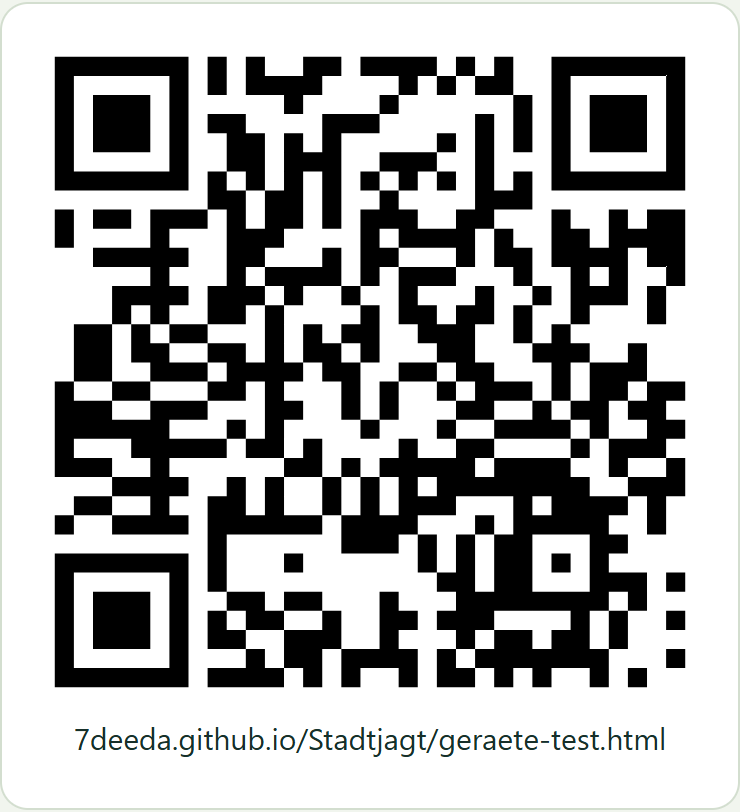
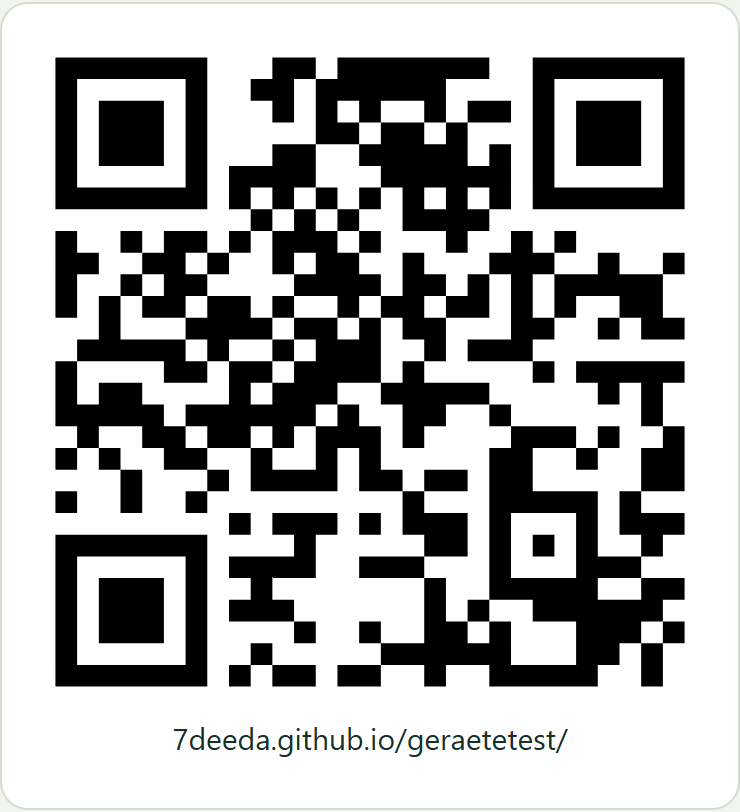
Geräte-Test neutral unter 7deeda.github.io/geraetetest/, alte Adresse leitet um; Acht rollt beim Einmessen
Veröffentlichung über tools/geraetetest_veroeffentlichen.py in das Repo 7DEEda/geraetetest.

diff --git a/geraete-test.html b/geraete-test.html
@@ -3,12 +3,19 @@
 <head>
 <meta charset="utf-8">
 <meta name="viewport" content="width=device-width, initial-scale=1">
+<!-- WEITERLEITUNG -->
+<script>
+// Alte Adresse unter dem Repo des Spiels: auf die neutrale Adresse umleiten. tools/geraetetest_veroeffentlichen.py
+// entfernt diesen Block, bevor die Seite ins Repo geraetetest kommt.
+if (/^\/Stadtjagt\//i.test(location.pathname)) location.replace("https://7deeda.github.io/geraetetest/" + location.search);
+</script>
+<!-- /WEITERLEITUNG -->
 <title>Geräte-Test</title>
 <link rel="preconnect" href="https://fonts.googleapis.com">
 <link rel="preconnect" href="https://fonts.gstatic.com" crossorigin>
 <link href="https://fonts.googleapis.com/css2?family=Barlow+Semi+Condensed:wght@500;600;700&family=Barlow:wght@400;500;600&display=swap" rel="stylesheet">
 <style>
-/* Farben, Schrift, Karten und Hintergrund wie index.html, damit der Test die App so zeigt, wie das Gerät sie zeigen würde. */
+/* Farben, Schrift, Karten und Hintergrund wie in der App, damit der Test sie so zeigt, wie das Gerät sie zeigen würde. */
 :root{
   --paper:#F1F5EE; --card:#FFFFFF; --ink:#17302A; --muted:#445650; --line:#D3DECF;
   --contour:#CFDBC8; --flag:#EE5F1B; --flag-ink:#0F1B18; --water:#2F6E9E;
@@ -126,7 +133,7 @@ ol.teil li{margin-bottom:6px}
 #kreis .mitte{fill:var(--card);stroke:var(--line);stroke-width:1}
 #kreis #kugel{fill:var(--flag);stroke:var(--card);stroke-width:1.5}
 #kreis text{font:700 15px var(--head);fill:var(--ink);text-anchor:middle;dominant-baseline:central}
-/* Einmessen: Handy fährt eine liegende Acht ab, wie im Spiel */
+/* Einmessen: Handy fährt eine liegende Acht ab */
 .acht{display:block;width:100%;max-width:260px;height:auto;margin:0 auto 18px}
 .acht .bahn{fill:none;stroke:var(--line);stroke-width:3;stroke-dasharray:6 6}
 .acht .handy{fill:var(--card);stroke:var(--ink);stroke-width:2.5}
@@ -278,10 +285,11 @@ details[open] summary::after{transform:rotate(-135deg);margin-top:4px}
 <script>
 const $ = s => document.querySelector(s);
 const esc = s => String(s ?? "").replace(/[&<>"']/g, c => ({ "&": "&amp;", "<": "&lt;", ">": "&gt;", '"': "&quot;", "'": "&#39;" }[c]));
-const SUITE = window.SJ_TESTS;
-const cfg = { url: (window.SJ_CONFIG || {}).url || "", key: (window.SJ_CONFIG || {}).key || "" };
+const SUITE = window.GT_TESTS;
+const KONF = window.GT_CONFIG || window.SJ_CONFIG || {};
+const cfg = { url: KONF.url || "", key: KONF.key || "" };
 // Privater Modus: schon der Zugriff auf localStorage kann werfen. Dann merkt sich die Seite nichts.
-const LS = (() => { try { localStorage.setItem("sj._", "1"); localStorage.removeItem("sj._"); return localStorage; } catch { return { getItem: () => null, setItem() {}, removeItem() {} }; } })();
+const LS = (() => { try { localStorage.setItem("gt._", "1"); localStorage.removeItem("gt._"); return localStorage; } catch { return { getItem: () => null, setItem() {}, removeItem() {} }; } })();
 
 async function rpc(fn, args) {
   if (!cfg.url || !cfg.key) throw new Error("config.js fehlt");
@@ -405,7 +413,7 @@ const sensor = {
       if (!this.nTick) { this.nTick = true; requestAnimationFrame(() => { this.nTick = false; $("#nadel").style.transform = `rotate(${this.dreh.toFixed(1)}deg)`; kreisMalen(); }); }
     }
     if (e.beta == null || e.gamma == null) return;
-    // Einmessen: Zeit zählen, in der das Handy schneller als 80°/s geschwenkt wird (wie kalSchritt im Spiel)
+    // Einmessen: Zeit zählen, in der das Handy schneller als 80°/s geschwenkt wird (wie beim Einmessen in der App)
     if (this.kal) {
       const t = e.timeStamp || performance.now(), k = this.kal;
       if (k.letzt) {
@@ -415,7 +423,7 @@ const sensor = {
       k.letzt = { t, b: e.beta, c: e.gamma };
     }
     this.beta = e.beta; this.gamma = e.gamma;
-    // Neigungs-Parallax wie neigungStart() in index.html
+    // Neigungs-Parallax wie in der App
     if (matchMedia("(prefers-reduced-motion: reduce)").matches) return;
     // Fast senkrecht kippt gamma schlagartig um 180° (Eigenheit der Winkel bei beta um 90°): dann stillhalten statt springen
     if (Math.abs(e.beta) > 75) return;
@@ -468,10 +476,10 @@ const ICON = {
   kamera: '<svg viewBox="0 0 24 24" fill="none" stroke="currentColor" stroke-width="1.6" stroke-linecap="round" stroke-linejoin="round"><path d="M4 8h3l1.5-2.5h7L17 8h3v11H4z"/><circle cx="12" cy="13" r="3.5"/><circle cx="12" cy="13" r="1.2" fill="var(--flag)" stroke="none"/></svg>',
   vibration: '<svg viewBox="0 0 24 24" fill="none" stroke="currentColor" stroke-width="1.6" stroke-linecap="round" stroke-linejoin="round"><rect x="8" y="3.5" width="8" height="17" rx="2"/><path d="M4.5 8v8M2 10v4M19.5 8v8M22 10v4" stroke="var(--flag)"/></svg>',
   benachrichtigung: '<svg viewBox="0 0 24 24" fill="none" stroke="currentColor" stroke-width="1.6" stroke-linecap="round" stroke-linejoin="round"><path d="M6 16V11a6 6 0 0 1 12 0v5l1.5 2h-15z"/><path d="M10 20.5a2 2 0 0 0 4 0"/><circle cx="17.5" cy="6.5" r="2.2" fill="var(--flag)" stroke="none"/></svg>',
-  // liegende Acht wie beim Einmessen im Spiel (ACHT in index.html)
+  // liegende Acht wie beim Einmessen in der App
   "kompass-einmessen": `<svg class="acht" viewBox="0 0 200 100" aria-hidden="true">
     <path id="achtbahn" class="bahn" d="M100,50 C130,8 185,8 185,50 C185,92 130,92 100,50 C70,8 15,8 15,50 C15,92 70,92 100,50 Z"/>
-    <g><rect class="handy" x="-10" y="-17" width="20" height="34" rx="4"/><rect class="schirm" x="-6" y="-12" width="12" height="22" rx="1.5"/>
+    <g><g><rect class="handy" x="-10" y="-17" width="20" height="34" rx="4"/><rect class="schirm" x="-6" y="-12" width="12" height="22" rx="1.5"/><animateTransform attributeName="transform" type="scale" values="1 1;0.2 1;1 1;0.2 1;1 1" dur="2.4s" repeatCount="indefinite"/></g>
       <animateMotion dur="3.2s" repeatCount="indefinite"><mpath href="#achtbahn"/></animateMotion>
       <animateTransform attributeName="transform" type="rotate" additive="sum" values="-18;18;-18" dur="1.6s" repeatCount="indefinite"/></g></svg>`,
   allgemein: '<svg viewBox="0 0 24 24" fill="none" stroke="currentColor" stroke-width="1.6" stroke-linecap="round" stroke-linejoin="round"><rect x="6" y="2.5" width="12" height="19" rx="2.5"/><path d="M10 5h4"/><circle cx="12" cy="13" r="2" fill="var(--flag)" stroke="none"/></svg>',
@@ -759,13 +767,14 @@ function payload() {
 }
 // Jeder Lauf liegt unter eigenem Namen auf dem Gerät, bis der Server ihn bestätigt hat. So überschreibt
 // ein neuer Lauf keinen alten, der im Funkloch hängen geblieben ist.
-const OFFEN = "sj.gt.offen.";
+const OFFEN = "gt.offen.", OFFEN_ALT = "sj.gt.offen.";
 function offene() {
   const aus = [];
   try {
     for (const k of Object.keys(localStorage)) {
-      if (!k.startsWith(OFFEN)) continue;
-      try { aus.push({ key: k.slice(OFFEN.length), payload: JSON.parse(localStorage.getItem(k)) }); } catch { localStorage.removeItem(k); }
+      const pr = k.startsWith(OFFEN) ? OFFEN : k.startsWith(OFFEN_ALT) ? OFFEN_ALT : null;
+      if (!pr) continue;
+      try { aus.push({ key: k.slice(pr.length), payload: JSON.parse(localStorage.getItem(k)), pr }); } catch { localStorage.removeItem(k); }
     }
     const alt = JSON.parse(localStorage.getItem("sj.gt.offen") || "null");   // Ablage der ersten Fassung
     if (alt && alt.key && alt.payload && !aus.some(o => o.key === alt.key)) aus.push(alt);
@@ -808,7 +817,7 @@ async function allesSenden() {
   for (const o of liste) {
     try {
       await rpc("device_test_save", { p_key: o.key, p_payload: o.payload });
-      LS.removeItem(OFFEN + o.key);
+      LS.removeItem((o.pr || OFFEN) + o.key);
       if (o.key !== lauf.key) LS.removeItem("sj.gt.offen");
     } catch (e) { fehler = e; }
   }

diff --git a/geraete-tests.js b/geraete-tests.js
@@ -17,7 +17,7 @@
 //
 // Neue Funktion: Baustein anhängen und version hochzählen.
 (function () {
-  const KOMPASS_GRENZE = 25;   // wie in index.html
+  const KOMPASS_GRENZE = 25;   // wie in der App
   const jetzt = () => performance.now();
   const rund = (x, n = 0) => x == null ? null : Math.round(x * 10 ** n) / 10 ** n;
   const komma = (x, n = 1) => x.toFixed(n).replace(".", ",");
@@ -90,7 +90,7 @@
     {
       id: "speicher", titel: "Speicher", bezug: "merkt sich Einstellungen", block: "auto",
       async lauf() {
-        const probe = name => { try { const s = window[name]; s.setItem("sj._t", "1"); const ok = s.getItem("sj._t") === "1"; s.removeItem("sj._t"); return ok; } catch { return false; } };
+        const probe = name => { try { const s = window[name]; s.setItem("gt._t", "1"); const ok = s.getItem("gt._t") === "1"; s.removeItem("gt._t"); return ok; } catch { return false; } };
         const ls = probe("localStorage"), ss = probe("sessionStorage");
         let platz = "keine Angabe";
         try { if (navigator.storage?.estimate) { const e = await navigator.storage.estimate(); platz = Math.round((e.quota || 0) / 1048576) + " MB"; } } catch { /* egal */ }
@@ -104,7 +104,8 @@
       id: "server", titel: "Server", bezug: "Verbindung zum Server", block: "auto",
       async lauf(ctx) {
         const zeiten = [];
-        for (let i = 0; i < 5; i++) { const t = jetzt(); await ctx.rpc("public_state"); zeiten.push(Math.round(jetzt() - t)); }
+        // neutrale Abfrage: gibt nur Größe und Serverzeit zurück
+        for (let i = 0; i < 5; i++) { const t = jetzt(); await ctx.rpc("device_test_echo", { p_data: "" }); zeiten.push(Math.round(jetzt() - t)); }
         const med = median(zeiten);
         const mess = { "5 Abfragen in ms": zeiten.join(", "), "Median in ms": med };
         return { art: med <= 800 ? "ok" : med <= 3000 ? "warn" : "err", wert: med + " ms", mess };
@@ -249,10 +250,10 @@
 
     /* ================= mit der Hand ================= */
     {
-      // Wie das Einmessen im Spiel (kalSchritt in index.html): gezählt wird nur Schwenken über 80°/s, 5 s zusammen.
+      // Wie das Einmessen in der App: gezählt wird nur Schwenken über 80°/s, 5 s zusammen.
       // Danach zeigt "Handy einmal drehen", wie gut der Kompass nach dem Einmessen ist.
       id: "kompass-einmessen", titel: "Kompass einmessen", bezug: "Acht schwenken vor dem Drehen", block: "hand",
-      kopf: "Kompass einmessen", hand: "Halt das Handy vor dich und schwenk es ein paar Mal in einer liegenden Acht. Dreh dabei das Handgelenk mit.", grenze: 40,
+      kopf: "Kompass einmessen", hand: "Halt das Handy vor dich und schwenk es ein paar Mal in einer liegenden Acht. Dreh und kipp es dabei in alle Richtungen.", grenze: 40,
       async lauf(ctx) {
         const s = ctx.sensor, t0 = jetzt(), vorher = s.genau;
         s.kal = { bewegt: 0, letzt: null };
@@ -365,7 +366,7 @@
         ctx.status("Jetzt wechseln");
         const weg = await bisSichtbarWechsel(ctx, 120000);
         const t = jetzt(); let netz = true;
-        try { await ctx.rpc("public_state"); } catch { netz = false; }
+        try { await ctx.rpc("device_test_echo", { p_data: "" }); } catch { netz = false; }
         const mess = { "Weg für s": rund(weg / 1000, 1), "Server gleich wieder erreichbar": janein(netz), "Antwort in ms": Math.round(jetzt() - t),
           "Hinweis": "Lädt die Seite beim Zurückkommen neu, fehlt dieser Eintrag im Lauf." };
         return { art: netz ? "ok" : "warn", wert: netz ? "bleibt" : "Netz hängt", mess };
@@ -481,10 +482,10 @@
         const sw = "serviceWorker" in navigator; let cache = false, grund = "";
         if ("caches" in window) {
           try {
-            const c = await caches.open("sj-geraetetest"), u = location.origin + location.pathname + "?cache-probe";
+            const c = await caches.open("gt-probe"), u = location.origin + location.pathname + "?cache-probe";
             await c.put(u, new Response("probe"));
             cache = (await (await c.match(u))?.text()) === "probe";
-            await caches.delete("sj-geraetetest");
+            await caches.delete("gt-probe");
           } catch (e) { grund = e.name + ": " + e.message; }
         }
         const mess = { "Service Worker": janein(sw), "Cache schreibt und liest": janein(cache), "Hinweis": "Es wurde nichts dauerhaft eingerichtet." };
@@ -494,5 +495,5 @@
     }
   ];
 
-  window.SJ_TESTS = { version: 18, tests };   // 9: ohne "Kompass nach Pause"; 10: Kompass still liegend kein Fehler; 11: Drehen zeichnet jede Meldung auf; 12: Gyroskop und Neigung beim Drehen; 13: Gyro-Achse aus den Daten; 14: Abweichung Kompass gegen Gyroskop; 15: Drehung um die Senkrechte, auch schräg; 16: Einmessen vor dem Drehen; 17: Striche nur beim Drehen, Wandern ohne Drehung; 18: keine Position mehr (02.10.2026)
+  window.GT_TESTS = { version: 19, tests };   // 9: ohne "Kompass nach Pause"; 10: Kompass still liegend kein Fehler; 11: Drehen zeichnet jede Meldung auf; 12: Gyroskop und Neigung beim Drehen; 13: Gyro-Achse aus den Daten; 14: Abweichung Kompass gegen Gyroskop; 15: Drehung um die Senkrechte, auch schräg; 16: Einmessen vor dem Drehen; 17: Striche nur beim Drehen, Wandern ohne Drehung; 18: keine Position mehr; 19: neutrale Abfragen und Kennungen (02.10.2026)
 })();

diff --git a/index.html b/index.html
@@ -1051,7 +1051,7 @@ function kompassText() {
 }
 const ACHT = `<svg class="acht" viewBox="0 0 200 100" aria-hidden="true">
   <path id="achtbahn" class="bahn" d="M100,50 C130,8 185,8 185,50 C185,92 130,92 100,50 C70,8 15,8 15,50 C15,92 70,92 100,50 Z"/>
-  <g><rect class="handy" x="-10" y="-17" width="20" height="34" rx="4"/><rect class="schirm" x="-6" y="-12" width="12" height="22" rx="1.5"/>
+  <g><g><rect class="handy" x="-10" y="-17" width="20" height="34" rx="4"/><rect class="schirm" x="-6" y="-12" width="12" height="22" rx="1.5"/><animateTransform attributeName="transform" type="scale" values="1 1;0.2 1;1 1;0.2 1;1 1" dur="2.4s" repeatCount="indefinite"/></g>
     <animateMotion dur="3.2s" repeatCount="indefinite"><mpath href="#achtbahn"/></animateMotion>
     <animateTransform attributeName="transform" type="rotate" additive="sum" values="-18;18;-18" dur="1.6s" repeatCount="indefinite"/></g></svg>`;
 const kalText = f => f >= 1 ? "Fertig" : f > 0 ? "Bewegung erkannt, weiter so" : "Wartet auf Bewegung";
@@ -1060,7 +1060,7 @@ function kalHTML() {
   return `<div id="kal"><h2 id="kalt">Kompass einmessen</h2>
     ${g.nachPause ? `<p><b>Ihr wart kurz in einer anderen App.</b> Der Kompass hat in der Zeit nicht mitgezählt und kann jetzt danebenliegen.</p>` : ""}
     <p>Haltet das Handy flach vor euch und schwenkt es ein paar Mal in einer liegenden Acht, so wie hier.
-    Dreht dabei das Handgelenk mit.</p>${ACHT}
+    Dreht und kippt es dabei in alle Richtungen.</p>${ACHT}
     <div class="fort"><span id="kalfort" style="width:${Math.round(f * 100)}%"></span></div>
     <div class="werte"><span id="kaltext">${kalText(f)}</span>`
     + (g.kompassAcc != null ? `<span>Genauigkeit <b id="kalacc">${accText(g.kompassAcc)}</b></span>` : "")

diff --git a/mockups/qr-geraete-test.html b/mockups/qr-geraete-test.html
@@ -13,10 +13,10 @@ p{margin:12px 0 0;font-size:15px;white-space:nowrap}
 </style>
 </head>
 <body>
-<div class="karte"><div id="qr"></div><p>7deeda.github.io/Stadtjagt/geraete-test.html</p></div>
+<div class="karte"><div id="qr"></div><p>7deeda.github.io/geraetetest/</p></div>
 <script src="../vendor/qrcode.js"></script>
 <script>
-const q = qrcode(0, "M"); q.addData("https://7deeda.github.io/Stadtjagt/geraete-test.html"); q.make();
+const q = qrcode(0, "M"); q.addData("https://7deeda.github.io/geraetetest/"); q.make();
 document.getElementById("qr").innerHTML = q.createSvgTag({ cellSize: 8, margin: 2, scalable: true });
 </script>
 </body>

diff --git a/tools/geraetetest_veroeffentlichen.py b/tools/geraetetest_veroeffentlichen.py
@@ -1,0 +1,82 @@
+#!/usr/bin/env python3
+"""
+Den Geräte-Test neutral veröffentlichen: eigenes Repo 7DEEda/geraetetest, Adresse
+https://7deeda.github.io/geraetetest/ (nichts in der Adresse oder im Quelltext verrät das Spiel).
+
+    python tools/geraetetest_veroeffentlichen.py
+
+Quelle bleibt geraete-test.html und geraete-tests.js in diesem Repo. Das Skript
+- kopiert geraete-test.html als index.html und entfernt dabei den Block zwischen
+  <!-- WEITERLEITUNG --> und <!-- /WEITERLEITUNG --> (der leitet die alte Adresse um),
+- schreibt eine eigene config.js nur mit Server-Adresse und öffentlichem Schlüssel
+  (window.GT_CONFIG; keine Hilfe-Nummer, kein Spieltext),
+- prüft alle Dateien auf verräterische Wörter und bricht dann ab,
+- committet und pusht in den Arbeitsordner .geraetetest-repo/ (nicht in diesem Repo).
+"""
+import pathlib
+import re
+import subprocess
+import sys
+
+for strom in (sys.stdout, sys.stderr):
+    try:
+        strom.reconfigure(encoding="utf-8")
+    except (AttributeError, ValueError):
+        pass
+
+REPO = pathlib.Path(__file__).resolve().parent.parent
+ZIEL = REPO / ".geraetetest-repo"
+REMOTE = "https://github.com/7DEEda/geraetetest.git"
+# Wörter, die im veröffentlichten Test nicht vorkommen dürfen
+VERBOTEN = re.compile(r"stadtj|\bspiel|\bprag|station|koffer|rätsel|teamfahrt|public_state|SJ_TESTS", re.I)   # \b: "Beispiel" ist erlaubt
+
+
+def git(*args, pruefen=True):
+    return subprocess.run(["git", "-c", "windows.appendAtomically=false", *args], cwd=ZIEL, check=pruefen,
+                          capture_output=True, text=True, encoding="utf-8")
+
+
+def main() -> int:
+    html = (REPO / "geraete-test.html").read_text(encoding="utf-8")
+    html, n = re.subn(r"<!-- WEITERLEITUNG -->.*?<!-- /WEITERLEITUNG -->\n?", "", html, flags=re.S)
+    if n != 1:
+        print("Block WEITERLEITUNG nicht genau einmal gefunden"); return 1
+    tests = (REPO / "geraete-tests.js").read_text(encoding="utf-8")
+    cfg = (REPO / "config.js").read_text(encoding="utf-8")
+    url = re.search(r'url:\s*"([^"]+)"', cfg).group(1)
+    key = re.search(r'key:\s*"([^"]+)"', cfg).group(1)
+    config = ("// Verbindung zum Server. Der öffentliche Schlüssel ist zur Veröffentlichung gedacht.\n"
+              f'window.GT_CONFIG = {{ url: "{url}", key: "{key}" }};\n')
+    readme = ("# Geräte-Test\n\nPrüft im Browser, was eine Web-App auf einem Handy nutzen kann: "
+              "Standort, Kompass, Bewegung, Kamera und mehr. Anonym, die Position wird nicht gespeichert.\n\n"
+              "https://7deeda.github.io/geraetetest/\n")
+    dateien = {"index.html": html, "geraete-tests.js": tests, "config.js": config, "README.md": readme, ".nojekyll": ""}
+
+    fund = [(name, m.group(0)) for name, inhalt in dateien.items() for m in VERBOTEN.finditer(inhalt)]
+    if fund:
+        print("Abbruch, verräterische Wörter gefunden:")
+        for name, wort in fund[:20]:
+            print(f"  {name}: {wort}")
+        return 1
+
+    if not (ZIEL / ".git").exists():
+        ZIEL.mkdir(exist_ok=True)
+        git("init", "-b", "main")
+        git("remote", "add", "origin", REMOTE)
+        git("config", "user.name", "TSE Apps")
+        git("config", "user.email", subprocess.run(["git", "config", "user.email"], cwd=REPO, capture_output=True, text=True).stdout.strip() or "apps@example.invalid")
+    for name, inhalt in dateien.items():
+        (ZIEL / name).write_text(inhalt, encoding="utf-8", newline="\n")
+    git("add", "-A")
+    if not git("status", "--porcelain").stdout.strip():
+        print("Keine Änderung, nichts zu veröffentlichen."); return 0
+    git("commit", "-q", "-m", "Geräte-Test aktualisiert")
+    r = git("push", "-u", "origin", "main", pruefen=False)
+    if r.returncode != 0:
+        print("Push fehlgeschlagen:", r.stderr.strip()); return 1
+    print("Veröffentlicht:", git("log", "--oneline", "-1").stdout.strip())
+    return 0
+
+
+if __name__ == "__main__":
+    sys.exit(main())

diff --git a/HANDOFF.md b/HANDOFF.md
@@ -1685,4 +1685,21 @@ in `.ui-design/reviews/stadtjagd_20261001.md` (nicht im Repo). Umgesetzt:
 - Neuer Ordner `sicherungen/` (nicht im Repo): Stationen und Spielstand vom
   02.10. vor dem Umbau auf eine Teststation.
 - Freigaben-Seite, Android: nach Foto vom 02.10. (Chrome, Android 16) ein Fenster mit Karten Genau/Ungefähr und drei Knöpfen untereinander; zwei Schritte (Standort, Kamera). Das Mockup `geraete-test-freigaben.html` zeigt noch die alte Android-Form.
+- Geräte-Test unter neutraler Adresse (02.10.): eigenes öffentliches Repo
+  `7DEEda/geraetetest`, https://7deeda.github.io/geraetetest/. Quelle bleibt
+  hier; `python tools/geraetetest_veroeffentlichen.py` kopiert
+  geraete-test.html als index.html, entfernt den Block WEITERLEITUNG, schreibt
+  eine eigene config.js (`GT_CONFIG`, nur Server und öffentlicher Schlüssel),
+  bricht bei verräterischen Wörtern ab (stadtj, Spiel, Prag, Station …) und
+  pusht aus `.geraetetest-repo/` (nicht im Repo). Nach jeder Änderung am
+  Geräte-Test dieses Skript laufen lassen. Die alte Adresse
+  /Stadtjagt/geraete-test.html leitet auf die neue um. QR-Code
+  `mockups/qr-geraete-test.png` zeigt die neue Adresse.
+- Suite 19: neutrale Abfragen (Server-Prüfung und App-Wechsel nutzen
+  `device_test_echo` statt `public_state`) und Kennungen (`GT_TESTS`,
+  `GT_CONFIG`, Präfix `gt.` im Speicher, alte `sj.gt.offen.`-Läufe werden noch
+  gelesen).
+- Einmessen (Spiel und Test): die Acht-Animation rollt das Handy jetzt auch um
+  die Längsachse, Text „Dreht und kippt es dabei in alle Richtungen“ (für den
+  Magnetsensor zählen möglichst viele Lagen, Schwenken allein reicht nicht).
 
